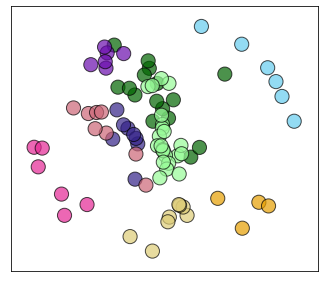
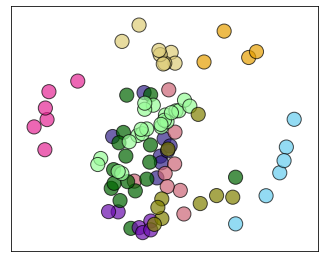
add Beta to MDS

diff --git a/results/summary/mds_escape_profiles.md b/results/summary/mds_escape_profiles.md
@@ -49,16 +49,14 @@ Extract from configuration what we will use as the site- and mutation-level metr
 
 
 ```python
-escape_frac_files = [config['early2020_escape_fracs'], config['escape_fracs']]
-
-site_metrics = {config['early2020_escape_fracs']: config['early2020_site_metric'], 
-                config['escape_fracs']: config['site_metric'],
-               }
+escape_frac_types = config['escape_frac_files']
+escape_frac_files = [config[f] for f in escape_frac_types]
+site_metrics = {config[f]:config[f'{f[:-12]}site_metric'] for f in escape_frac_types}
 
 print(f"At site level, quantifying selection by {site_metrics}")
 ```
 
-    At site level, quantifying selection by {'results/prior_DMS_data/early2020_escape_fracs.csv': 'site_total_escape_frac_epistasis_model', 'results/escape_scores/escape_fracs.csv': 'site_total_escape_frac_single_mut'}
+    At site level, quantifying selection by {'results/escape_scores/escape_fracs.csv': 'site_total_escape_frac_single_mut', 'results/prior_DMS_data/early2020_escape_fracs.csv': 'site_total_escape_frac_epistasis_model', 'results/prior_DMS_data/beta_escape_fracs.csv': 'site_total_escape_frac_single_mut'}
 
 
 ## Read samples and escape fractions
@@ -344,10 +342,10 @@ for name, specs in mds_config.items():
 
     
     Making plot all, which has the following antibodies:
-    ['P02_repeat_500', 'P03_repeat_1250', 'P04_repeat_1250', 'P05_repeat_500', 'P08_repeat_500', 'P09_repeat_200', 'P12_repeat_200', 'P14_repeat_1250', 'M02-day-119_200', 'M05-day-119_500', 'M08-day-119_200', 'M10-day-119_200', 'M12-day-119_200', 'M16-day-119_1250', 'M17-day-119_200', 'M18-day-119_80', 'M19-day-119_200', 'M01-day-119_80', 'M03-day-119_200', 'M04-day-119_200', 'M06-day-119_80', 'M07-day-119_200', 'M09-day-119_500', 'M11-day-119_200', 'M13-day-119_200', 'M14-day-119_500', 'M20-day-119_200', 'M21-day-119_200', 'M22-day-119_200', 'M23-day-119_200', '12C_d61_160', '13_d15_200', '1C_d26_200', '22C_d28_200', '23C_d26_80', '23_d21_1250', '24C_d32_200', '25C_d48_200', '25_d18_500', '6C_d33_500', '7C_d29_500', 'COV-021_500', 'COV-047_200', 'COV-057_50', 'COV-072_200', 'COV-107_80', 'C105_400', 'CB6_400', 'COV2-2165_400', 'COV2-2196_400', 'COV2-2832_400', 'REGN10933_400', 'C002_400', 'C121_400', 'C144_400', 'COV2-2479_400', 'LY-CoV555_400', 'COV2-2050_400', 'C110_400', 'C135_400', 'COV2-2096_400', 'COV2-2130_400', 'COV2-2499_400', 'REGN10987_400', 'COV2-2082_400', 'COV2-2094_400', 'COV2-2677_400', 'CR3022_400', '267C_repeat_200', '268C_repeat_500', '273C_repeat_500', '274C_repeat_500', '276C_repeat_500', '277C_repeat_500', '278C_repeat_1250', '279C_repeat_1250', 'Delta_1_500', 'Delta_3_350', 'Delta_4_350', 'Delta_6_500', 'Delta_7_1250', 'Delta_8_500', 'Delta_10_1250', 'Delta_11_500']
-    stress = 51.188579579077434 from iteration 255
-    Manual calculus of sklearn stress : 51.188545732481074
-    Kruskal's Stress : 0.2006795749267511
+    ['P02_repeat_500', 'P03_repeat_1250', 'P04_repeat_1250', 'P05_repeat_500', 'P08_repeat_500', 'P09_repeat_200', 'P12_repeat_200', 'P14_repeat_1250', 'M02-day-119_200', 'M05-day-119_500', 'M08-day-119_200', 'M10-day-119_200', 'M12-day-119_200', 'M16-day-119_1250', 'M17-day-119_200', 'M18-day-119_80', 'M19-day-119_200', 'M01-day-119_80', 'M03-day-119_200', 'M04-day-119_200', 'M06-day-119_80', 'M07-day-119_200', 'M09-day-119_500', 'M11-day-119_200', 'M13-day-119_200', 'M14-day-119_500', 'M20-day-119_200', 'M21-day-119_200', 'M22-day-119_200', 'M23-day-119_200', '12C_d61_160', '13_d15_200', '1C_d26_200', '22C_d28_200', '23C_d26_80', '23_d21_1250', '24C_d32_200', '25C_d48_200', '25_d18_500', '6C_d33_500', '7C_d29_500', 'COV-021_500', 'COV-047_200', 'COV-057_50', 'COV-072_200', 'COV-107_80', 'C105_400', 'CB6_400', 'COV2-2165_400', 'COV2-2196_400', 'COV2-2832_400', 'REGN10933_400', 'C002_400', 'C121_400', 'C144_400', 'COV2-2479_400', 'LY-CoV555_400', 'COV2-2050_400', 'C110_400', 'C135_400', 'COV2-2096_400', 'COV2-2130_400', 'COV2-2499_400', 'REGN10987_400', 'COV2-2082_400', 'COV2-2094_400', 'COV2-2677_400', 'CR3022_400', '267C_repeat_200', '268C_repeat_500', '273C_repeat_500', '274C_repeat_500', '276C_repeat_500', '277C_repeat_500', '278C_repeat_1250', '279C_repeat_1250', 'Delta_1_500', 'Delta_3_350', 'Delta_4_350', 'Delta_6_500', 'Delta_7_1250', 'Delta_8_500', 'Delta_10_1250', 'Delta_11_500', 'K007_500', 'K031_500', 'K033_500', 'K040_500', 'K041_500', 'K046_200', 'K114_200', 'K115_old_80', 'K119_200']
+    stress = 67.30076222044937 from iteration 936
+    Manual calculus of sklearn stress : 67.30075046008085
+    Kruskal's Stress : 0.20853602197601526
     [Poor > 0.2 > Fair > 0.1 > Good > 0.05 > Excellent > 0.025 > Perfect > 0.0]
     Using condition-level color scheme in column class_color of data/mds_color_schemes.csv
     Saving plot to results/multidimensional_scaling/all_mds.pdf

diff --git a/results/summary/lineplots_by_group.md b/results/summary/lineplots_by_group.md
@@ -47,15 +47,9 @@ Read the escape fractions for both the B.1.351 plasmas and the early 2020 plasma
 
 
 ```python
-escape_frac_files = [config['early2020_escape_fracs'], 
-                     config['beta_escape_fracs'],
-                     config['escape_fracs']
-                    ]
-
-site_metrics = {config['early2020_escape_fracs']: config['early2020_site_metric'], 
-                config['escape_fracs']: config['site_metric'],
-                config['beta_escape_fracs']: config['beta_site_metric'], 
-               }
+escape_frac_types = config['escape_frac_files']
+escape_frac_files = [config[f] for f in escape_frac_types]
+site_metrics = {config[f]:config[f'{f[:-12]}site_metric'] for f in escape_frac_types}
 
 escape_fracs_dfs = []
 
@@ -115,34 +109,34 @@ display(HTML(escape_fracs.head().to_html(index=False)))
   </thead>
   <tbody>
     <tr>
-      <td>12C_d152_80</td>
+      <td>267C_200</td>
       <td>331</td>
       <td>E</td>
-      <td>0.04926</td>
+      <td>0.04972</td>
     </tr>
     <tr>
-      <td>12C_d152_80</td>
+      <td>267C_200</td>
       <td>331</td>
       <td>E</td>
-      <td>0.04926</td>
+      <td>0.04972</td>
     </tr>
     <tr>
-      <td>12C_d152_80</td>
+      <td>267C_200</td>
       <td>331</td>
       <td>E</td>
-      <td>0.04926</td>
+      <td>0.04972</td>
     </tr>
     <tr>
-      <td>12C_d152_80</td>
+      <td>267C_200</td>
       <td>331</td>
       <td>E</td>
-      <td>0.04926</td>
+      <td>0.04972</td>
     </tr>
     <tr>
-      <td>12C_d152_80</td>
+      <td>267C_200</td>
       <td>331</td>
       <td>E</td>
-      <td>0.04926</td>
+      <td>0.04972</td>
     </tr>
   </tbody>
 </table>
@@ -207,6 +201,8 @@ for supergroup, subgroup in line_plot_config.items():
         return list(range(start, end + 1, site_break_freq))
 
     # make plot
+    ncol=1
+    
     p = (ggplot(df_with_mean
                 .assign(group_name=lambda x: pd.Categorical(x['group_name'], ordered=True,
                                                             categories=subgroup.keys()
@@ -224,14 +220,14 @@ for supergroup, subgroup in line_plot_config.items():
                                ymax=np.inf,
                                fill='antibody_class',
                               ),
-                   alpha=0.2,
+                   alpha=0.75,
                    inherit_aes=False,
                   ) +
 
          geom_line() +
-         facet_wrap('~ group_name', ncol=1) +
+         facet_wrap('~ group_name', ncol=ncol) +
          theme_classic() +
-         theme(figure_size=(5, 2 * df_with_mean['group_name'].nunique()),
+         theme(figure_size=(4*ncol, 1.5 * df_with_mean['group_name'].nunique()),
                axis_text_x=element_text(rotation=90, hjust=0.5),
                strip_background=element_blank(),
                ) +
